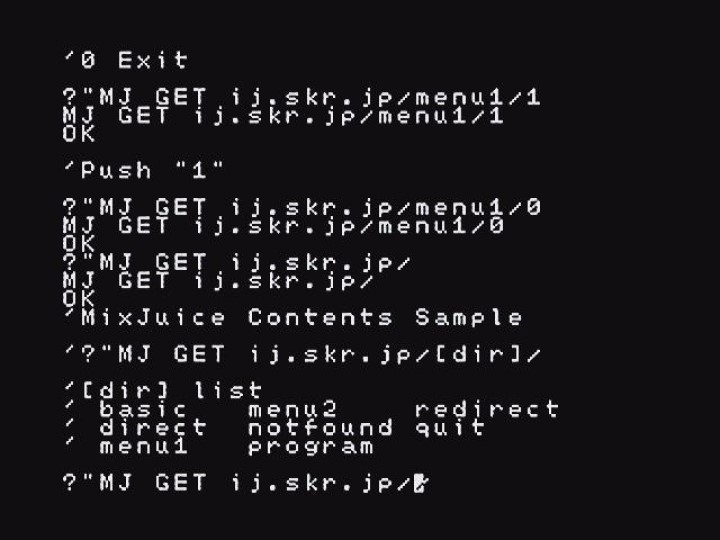
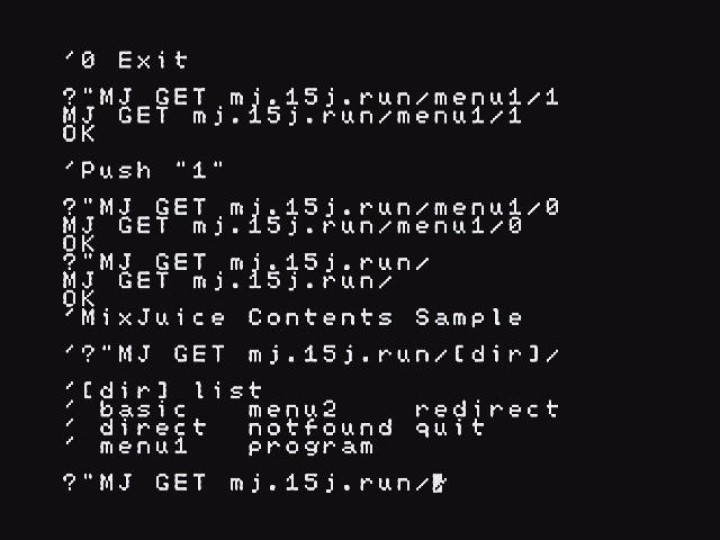
ドメイン ij.skr.jp → mj.15j.run 変更

diff --git a/index.html b/index.html
@@ -1,10 +1,10 @@
 'MixJuice Contents Sample
 
-'?"MJ GET ij.skr.jp/[dir]/
+'?"MJ GET mj.15j.run/[dir]/
 
 '[dir] list
 ' basic   menu2    redirect
 ' direct  notfound quit
 ' menu1   program
 
-?"MJ GET ij.skr.jp//
+?"MJ GET mj.15j.run//

diff --git a/notfound/index.html b/notfound/index.html
@@ -1,4 +1,4 @@
 'file "test" is not
 'Push Enter(return)
 
-?"MJ GET ij.skr.jp/notfound/test
+?"MJ GET mj.15j.run/notfound/test

diff --git a/menu2/index.html b/menu2/index.html
@@ -6,4 +6,4 @@
 
 '0 or Enter exit
 
-INPUT N:?"MJ GET ij.skr.jp/menu2/";N;".txt
+INPUT N:?"MJ GET mj.15j.run/menu2/";N;".txt

diff --git a/redirect/index.html b/redirect/index.html
@@ -1,4 +1,4 @@
 
 'Count Down!
 
-?"MJ GET ij.skr.jp/redirect/10
+?"MJ GET mj.15j.run/redirect/10

diff --git a/direct/index.html b/direct/index.html
@@ -3,4 +3,4 @@
 
 '[9] Exit
 
-?"MJ GET ij.skr.jp/direct/
+?"MJ GET mj.15j.run/direct/

diff --git a/menu1/index.html b/menu1/index.html
@@ -6,4 +6,4 @@
 
 '0 Exit
 
-?"MJ GET ij.skr.jp/menu1/
+?"MJ GET mj.15j.run/menu1/

diff --git a/README.md b/README.md
@@ -15,7 +15,7 @@ GitHub 上での表示は UTF-8 でないと正常に表示できません。\
 次のコマンドで参照できます。
 
 ```
-?"MJ GET ij.skr.jp/
+?"MJ GET mj.15j.run/
 ```
 
 または
@@ -38,7 +38,7 @@ lash>echo > uart;cat uart
 次のコマンドで参照できます。（GET の代わりに GETS も使用可）
 
 ```
-lash>echo MJ GET ij.skr.jp/il/> uart;cat uart > .
+lash>echo MJ GET mj.15j.run/il/> uart;cat uart > .
 ```
 
 ### IchigonQuest

diff --git a/basic/README.md b/basic/README.md
@@ -1,7 +1,7 @@
 ## IchigoJam BASIC での基本
 
 ```
-?"MJ GET ij.skr.jp/basic/
+?"MJ GET mj.15j.run/basic/
 ```
 
 で表示します。\
@@ -21,7 +21,7 @@ IchigoJam BASIC は何も処理せずに表示するのみです。\
 USB-シリアル を用いている場合と同じです。
 
 ```
-?"MJ GET ij.skr.jp/basic/
+?"MJ GET mj.15j.run/basic/
 ```
 
 ？ は PRINT の省略形です。\

diff --git a/menu1/README.md b/menu1/README.md
@@ -4,13 +4,13 @@
 「15jm.li」で採用しているメニューです。
 
 ```
-?"MJ GET ij.skr.jp/menu1/
+?"MJ GET mj.15j.run/menu1/
 ```
 
 で表示します。最後が
 
 ```
-?"MJ GET ij.skr.jp/menu1/■
+?"MJ GET mj.15j.run/menu1/■
 ```
 
 で停止し、GETS（GET）コマンドの後に入力する事で\

diff --git a/menu2/README.md b/menu2/README.md
@@ -5,13 +5,13 @@
 採用しているメニューです。
 
 ```
-?"MJ GET ij.skr.jp/menu2/
+?"MJ GET mj.15j.run/menu2/
 ```
 
 で表示します。
 
 ```
-INPUT N:?"MJ GET ij.skr.jp/menu2/";N;".txt
+INPUT N:?"MJ GET mj.15j.run/menu2/";N;".txt
 ?■
 ```
 

diff --git a/direct/README.md b/direct/README.md
@@ -6,5 +6,5 @@ IchigoJam BASIC のダイレクトコマンドとして動作します。
 次を実行してみて下さい。
 
 ```
-?"MJ GET ij.skr.jp/direct/
+?"MJ GET mj.15j.run/direct/
 ```

diff --git a/redirect/README.md b/redirect/README.md
@@ -1,7 +1,7 @@
 ## 転送
 
 ```
-?"MJ GET ij.skr.jp/redirect/
+?"MJ GET mj.15j.run/redirect/
 ```
 
 がサンプルです。
